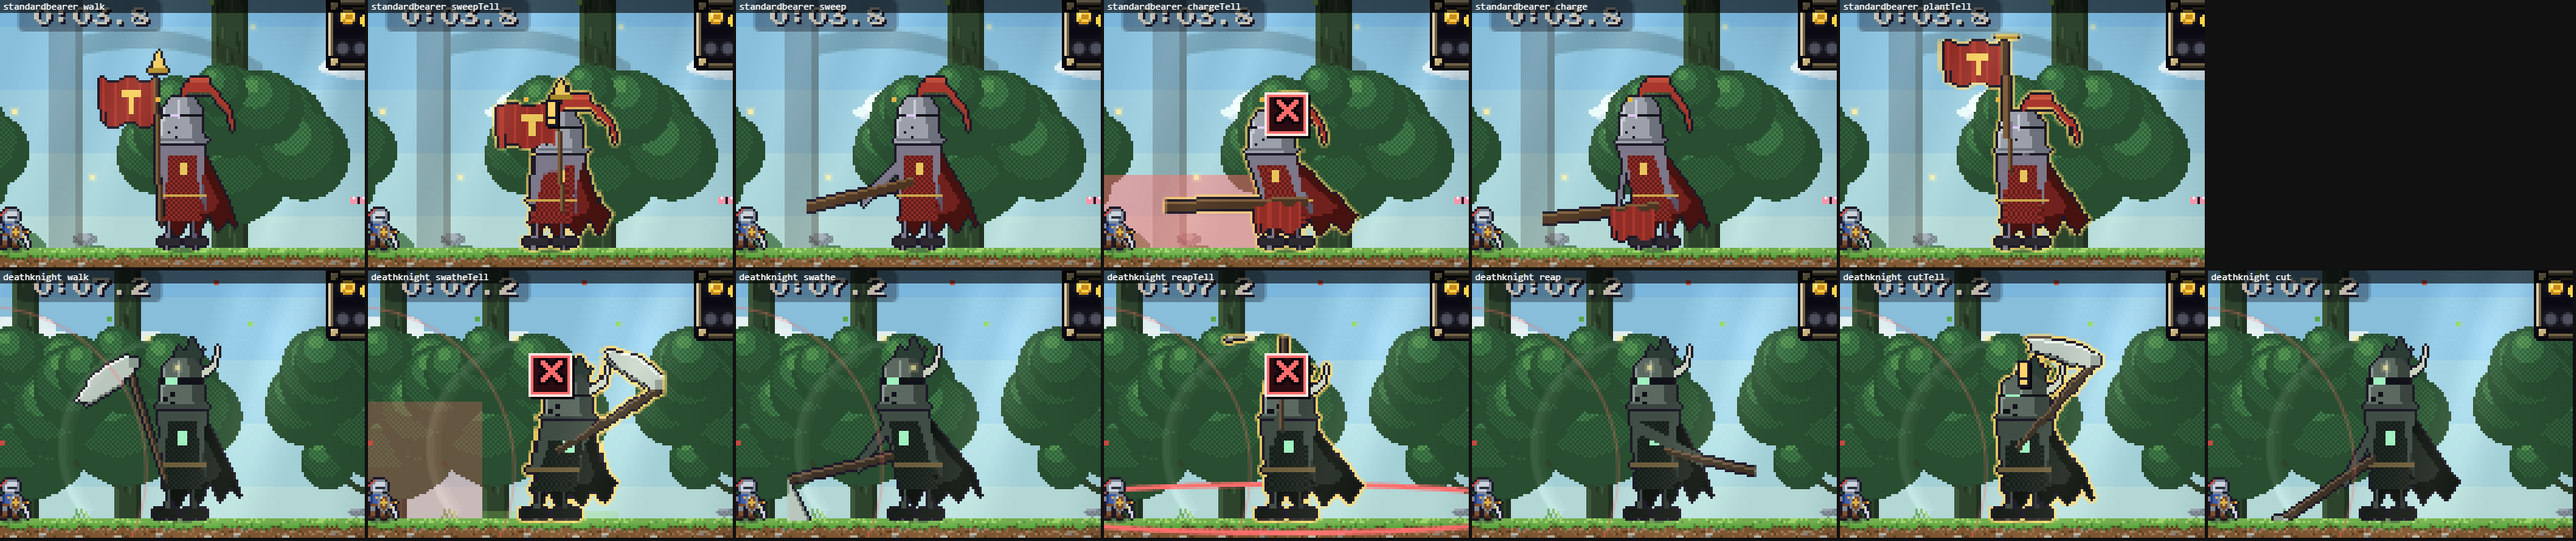
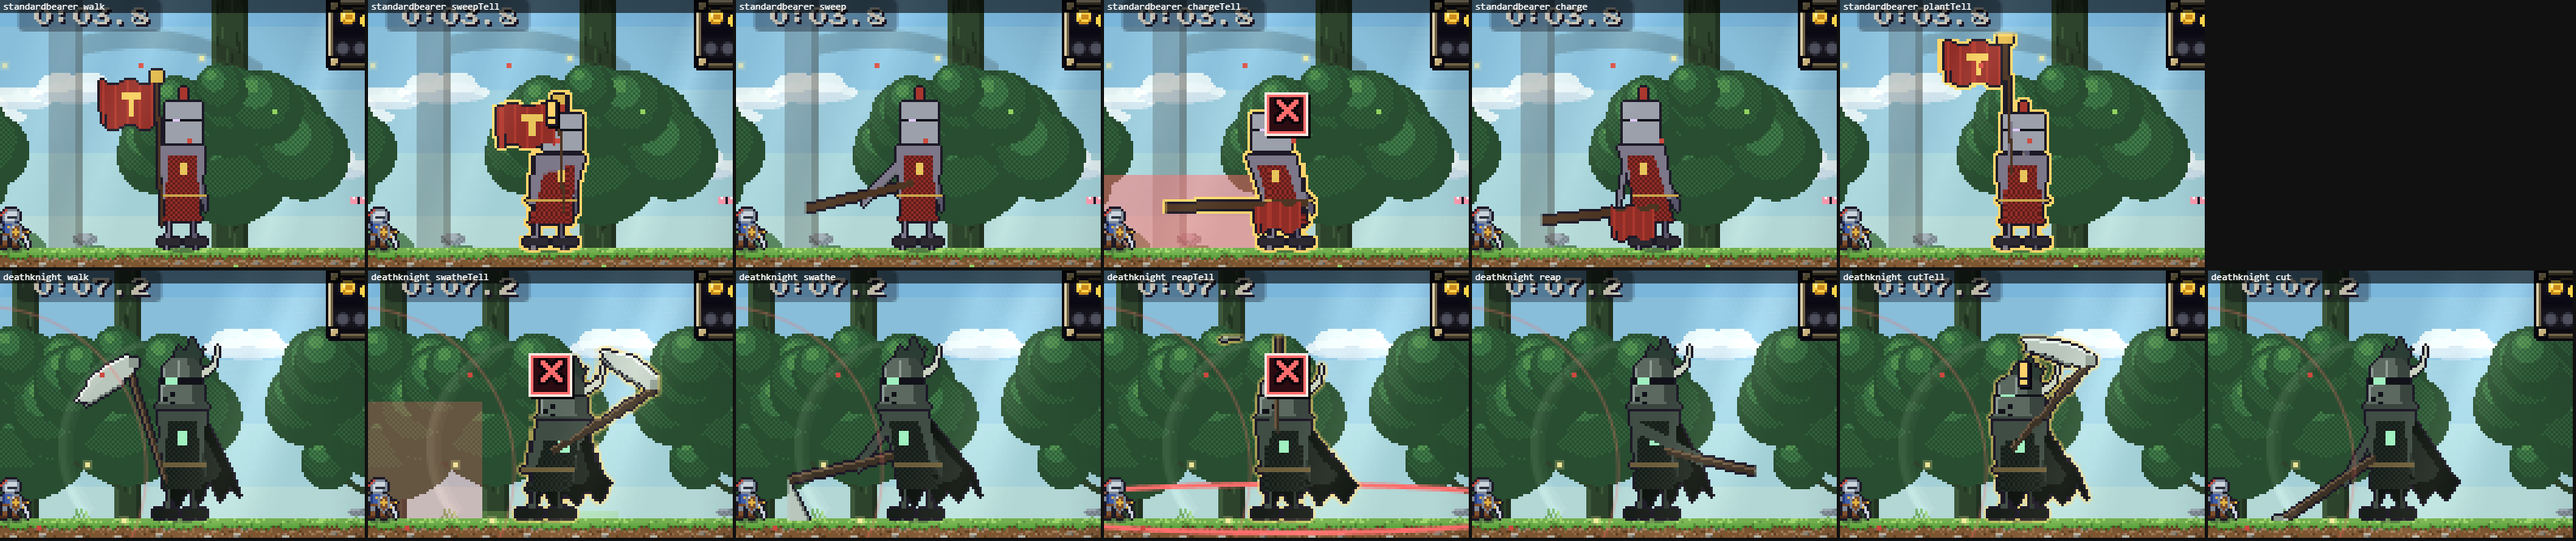
THE STANDARD-BEARER IS LEFT AS HE WAS: the Death Knight keeps his new silhouette, the herald gets his box back
WHY: Daniel, 2026-09-24: the Standard-Bearer is being removed from THE UNBURIED FIELD and replaced by a new
mini-boss in a later lane, so his art and code are not to be touched. 613c157 had given him a plume, a cloak and
a gilt pole. That is all reverted: his palette, his figure() call and his pole lines are byte-for-byte back to
613c157~1. The great helm in figure() is now drawn only for a figure with a crest (the Death Knight's fin); a
figure with no crest takes the old 8x9 helm, line for line.
The Death Knight keeps all of 613c157: the great helm with fin, horn, visor and breaths, the tattered cloak, and
the crescent scythe. His tell timings are untouched (dkFrame unchanged).
docs/polish/unburied-bigs-ingame-after.png and unburied-foes-after.png were re-shot: the herald row now matches
the before shots.
Checks: unburied, unburied-fights, tells, pixels, comments, syntax green.

diff --git a/src/unburied-foes.js b/src/unburied-foes.js
@@ -433,14 +433,13 @@ function figure(g, o) {
   if (P2.mark) rect(g, hx - 1 * s, sh + 4 * s, 2 * s, 3 * s, P2.mark);
   /* head: a helm with the face gone */
   const hy = sh - 5 * s;
-  if (o.helm === 'great') {
+  if (o.helm === 'great' && !o.crest) { rect(g, hx - 4 * s, hy - 5 * s, 8 * s, 9 * s, P2.steel); rect(g, hx - 4 * s, hy - 1 * s, 8 * s, Math.max(1, s), '#101018'); rect(g, hx + 1 * s, hy - 1 * s, 2 * s, Math.max(1, s), P2.eye); rect(g, hx - 1 * s, hy - 8 * s, 2 * s, 3 * s, P2.plume || P2.steel); }   /* (the Standard-Bearer keeps his: he is leaving the field, Daniel 2026-09-24) */
+  else if (o.helm === 'great') {
     /* A GREAT HELM, NOT A BOX (2026-09-24, POLISH): an 8x9 rectangle read as a crate on his shoulders. Now: a crown that narrows, cheeks that
        swell and a skirt that flares onto the gorget, lit down its facing edge and dark down its back; a visor slit with the eyes in it,
-       breaths punched under it on the side he faces, a ridge down the middle, and a crest - a horsehair plume for the herald, a torn
-       iron fin and two horns of bone for the Death Knight. */
+       breaths punched under it on the side he faces, a ridge down the middle, and a crest - a torn
+       iron fin and a horn of bone. The Death Knight's only: the Standard-Bearer is leaving the field and keeps his old one. */
     const u = Math.max(1, s), lo = P2.steelD || P2.mailD, hi = P2.steelL || '#c8ccd4';
-    if (o.crest === 'plume') { line(g, hx, hy - 5 * s, hx - 1 * s, hy - 9 * s, P2.plume, Math.max(2, 2 * s)); line(g, hx - 1 * s, hy - 9 * s, hx - 6 * s, hy - 9 * s, P2.plume, Math.max(2, 2.2 * s)); line(g, hx - 6 * s, hy - 9 * s, hx - 10 * s, hy - 4 * s, P2.plume, Math.max(2, 1.8 * s)); line(g, hx - 10 * s, hy - 4 * s, hx - 11 * s, hy, P2.plume, Math.max(1, 1.2 * s));
-      line(g, hx - 2 * s, hy - 10 * s, hx - 6 * s, hy - 10 * s, P2.plumeL || '#c84a3a', u); }
     if (o.crest === 'fin') { fillPoly(g, [[hx - 3 * s, hy - 4 * s], [hx + 2 * s, hy - 4 * s], [hx + 1 * s, hy - 8 * s], [hx - 0.5 * s, hy - 6.5 * s], [hx - 2 * s, hy - 10 * s], [hx - 3.5 * s, hy - 7 * s], [hx - 5 * s, hy - 8.5 * s]], P2.plume);
       line(g, hx - 3.5 * s, hy - 2 * s, hx - 7 * s, hy - 5 * s, P2.bone, Math.max(2, 1.5 * s)); line(g, hx - 7 * s, hy - 5 * s, hx - 7.5 * s, hy - 8 * s, P2.bone, u); }
     fillPoly(g, [[hx - 2.5 * s, hy - 5.5 * s], [hx + 2.5 * s, hy - 5.5 * s], [hx + 4 * s, hy - 3.5 * s], [hx + 4.5 * s, hy + 2.5 * s], [hx + 5.5 * s, hy + 4.5 * s], [hx - 5.5 * s, hy + 4.5 * s], [hx - 4.5 * s, hy + 2.5 * s], [hx - 4 * s, hy - 3.5 * s]], P2.steel);
@@ -488,20 +487,19 @@ export function bakeBannerbearer() {
     F.push(c); }
   return setOf(F, 44, 64, 18, 63, 12, 26);
 }
-const HERALD = { plumeL: '#c84a3a', steelD: '#6a6e7a', mail: '#7a7488', mailD: '#58526a', cloth: '#8e2a26', clothD: '#5e1a1a', belt: '#c8a44a', boot: '#2a2630', bone: '#e0dac0', steel: '#9a9eaa', eye: '#e0c8ff', mark: '#e8c35a', plume: '#a8342c' };
+const HERALD = { mail: '#7a7488', mailD: '#58526a', cloth: '#8e2a26', clothD: '#5e1a1a', belt: '#c8a44a', boot: '#2a2630', bone: '#e0dac0', steel: '#9a9eaa', eye: '#e0c8ff', mark: '#e8c35a', plume: '#a8342c' };
 /* THE STANDARD-BEARER: a herald twice a man's height, in the order's red and gold, with the army's great banner */
 export function bakeStandardBearer() {
   const F = [];
   for (let f = 0; f < 11; f++) { const [c, g] = canvas(80, 98), cx = 34, fy = 97, s = 1.9;
     const walk = f === 1 ? 1 : f === 2 ? -1 : 0, stell = f === 3, sweep = f === 4, ctell = f === 5, charge = f === 6, ptell = f === 7, planted = f === 8, torn = f === 9, hurt = f === 10;
     const hand = stell ? [-6, -40] : sweep ? [22, -22] : ctell ? [8, -26] : charge ? [14, -22] : ptell ? [4, -58] : planted ? [10, -26] : torn ? [10, -12] : [8, -34];
-    figure(g, { cx: cx - (hurt ? 3 : 0), fy, s, pal: HERALD, helm: 'great', crest: 'plume', cloak: ['#6e1e1c', '#44100e'], flut: f, stride: walk, kneel: torn, lean: hurt ? -3 : stell ? -2 : ctell || charge ? 3 : 0, front: hand.map(v => v / s), back: ptell ? [2 / s, -54 / s] : [-10 / s, -20 / s] });
+    figure(g, { cx: cx - (hurt ? 3 : 0), fy, s, pal: HERALD, helm: 'great', stride: walk, kneel: torn, lean: hurt ? -3 : stell ? -2 : ctell || charge ? 3 : 0, front: hand.map(v => v / s), back: ptell ? [2 / s, -54 / s] : [-10 / s, -20 / s] });
     const bx = cx + hand[0], by = fy + hand[1];
     if (planted || torn) { /* hands empty: the banner is in the ground, drawn by the world */ }
-    else if (ctell || charge) { line(g, bx - 16, by + 4, bx + 40, by + (ctell ? 6 : 10), '#4a3222', 3); line(g, bx - 16, by + 3, bx + 40, by + (ctell ? 5 : 9), '#7a5a3a', 1); fillPoly(g, [[bx + 40, by + (ctell ? 2 : 6)], [bx + 40, by + (ctell ? 10 : 14)], [bx + 48, by + (ctell ? 6 : 10)]], '#e8c35a'); for (let i = 0; i < 18; i++) rect(g, bx - 14 + i, by + 6 + Math.round(Math.sin(i * 0.6 + f) * 1.5), 1, 12 - (i > 13 ? (i % 2) * 4 : 0), i % 4 === 0 ? '#a8342c' : '#8e2a26'); rect(g, bx + 38, by + 4, 5, 5, '#d8b04a'); }
-    else if (sweep) { line(g, bx - 20, by - 6, bx + 30, by + 6, '#4a3222', 3); line(g, bx - 20, by - 7, bx + 30, by + 5, '#7a5a3a', 1); fillPoly(g, [[bx + 29, by + 2], [bx + 31, by + 10], [bx + 38, by + 8]], '#e8c35a'); }
-    else { const top = by - (stell ? 26 : 36); line(g, bx, by + 22, bx + 2, top, '#4a3222', 3); line(g, bx + 1, by + 22, bx + 3, top, '#7a5a3a', 1);   /* THE POLE (POLISH): lit down one side, so it reads against the plate */
-      fillPoly(g, [[bx - 1, top - 3], [bx + 5, top - 3], [bx + 2, top - 12]], '#e8c35a'); rect(g, bx - 2, top - 4, 8, 2, '#a8842a');   /* a gilt spear-point and its crossbar on the top of it */
+    else if (ctell || charge) { line(g, bx - 16, by + 4, bx + 40, by + (ctell ? 6 : 10), '#4a3222', 3); for (let i = 0; i < 18; i++) rect(g, bx - 14 + i, by + 6 + Math.round(Math.sin(i * 0.6 + f) * 1.5), 1, 12 - (i > 13 ? (i % 2) * 4 : 0), i % 4 === 0 ? '#a8342c' : '#8e2a26'); rect(g, bx + 38, by + 4, 5, 5, '#d8b04a'); }
+    else if (sweep) { line(g, bx - 20, by - 6, bx + 30, by + 6, '#4a3222', 3); rect(g, bx + 28, by + 4, 5, 5, '#d8b04a'); }
+    else { const top = by - (stell ? 26 : 36); line(g, bx, by + 22, bx + 2, top, '#4a3222', 3); rect(g, bx, top - 4, 5, 5, '#d8b04a');
       for (let i = 0; i < 22; i++) rect(g, bx + 4 + i, top + 1 + Math.round(Math.sin(i * 0.5 + f) * 1.5), 1, 18 - (i > 17 ? (i % 2) * 5 : 0), i % 5 === 0 ? '#a8342c' : '#8e2a26');
       rect(g, bx + 9, top + 5, 8, 3, '#e8c35a'); rect(g, bx + 12, top + 8, 2, 7, '#e8c35a'); }
     F.push(c); }
